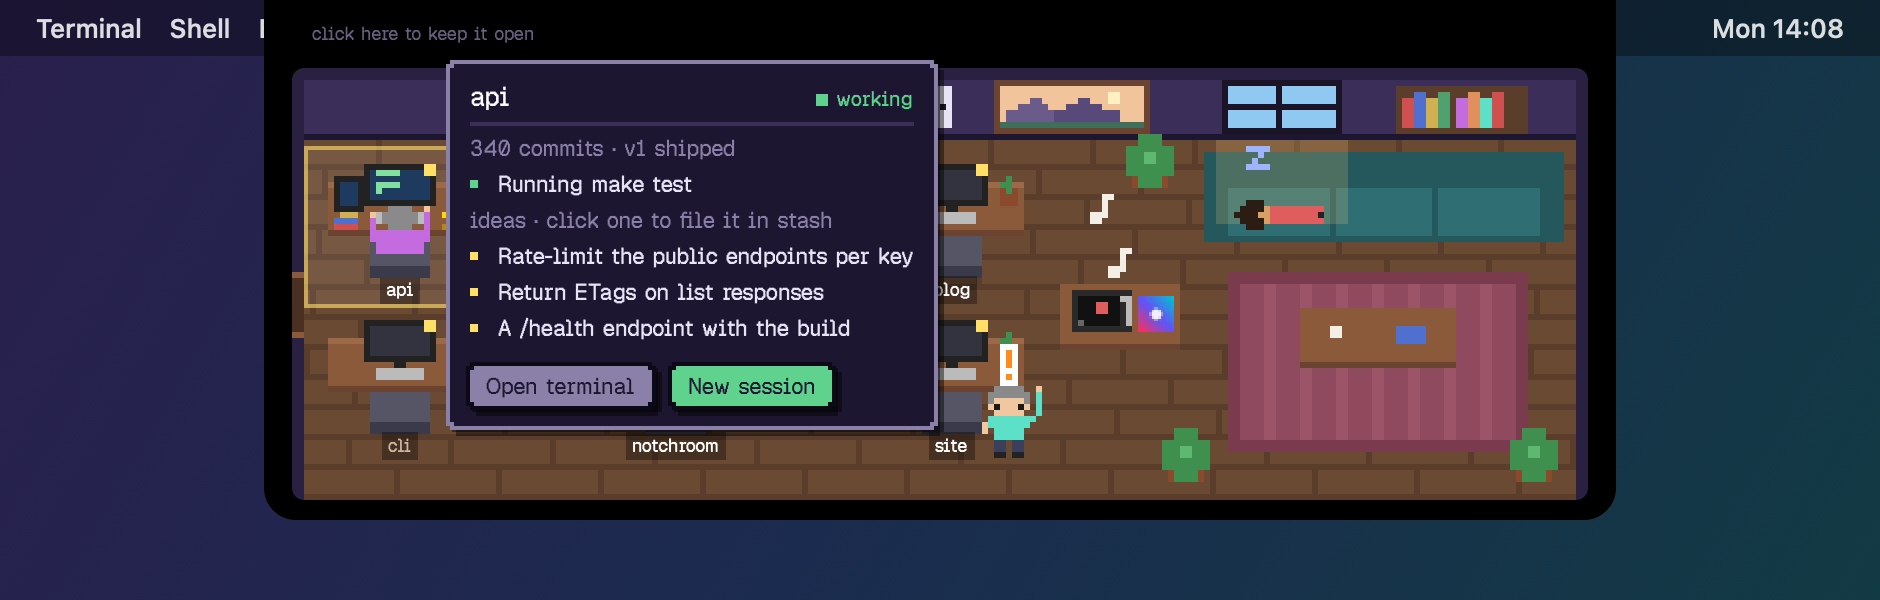
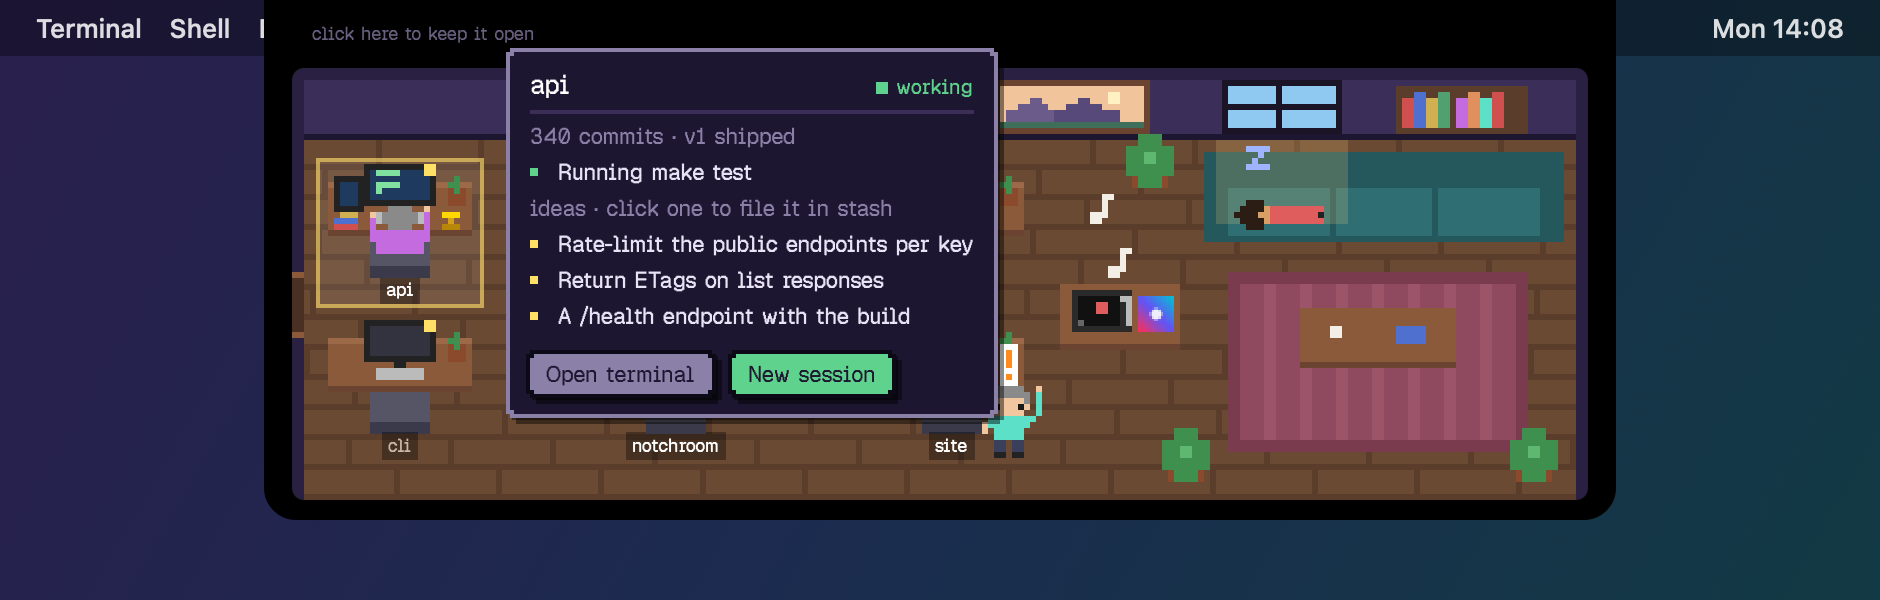
Open cards on click; keep a full card's buttons on screen
Cards followed the mouse, so they popped up while you were just passing
through the room, and the desk zones tiled the whole work area, so almost
anywhere counted as a desk. A card now opens when you click what it is about
and closes on a second click, a click on the card, a click elsewhere, or when
the notch collapses. Each desk's zone is now just the desk, its chair and its
nameplate.

A card taller than the open notch was clamped to a negative position, which
pushed its buttons off the bottom. Trailing lines (the ideas) are dropped
until it fits.

Changed region(s): [[0.1543, 0.06, 0.5553, 0.75]]

diff --git a/Sources/Room.swift b/Sources/Room.swift
@@ -36,6 +36,7 @@ final class Room: NSView {
     var cat = Cat()
     var expanded = false
     var keptOpen = false // clicked open: stays open without hovering
+    var opened: Target? // clicked: its card stays up until you click it again or elsewhere
     var autoCard: Target? // shown without hovering, while the room peeks open for a permission request
     var tick = 0
     var mouse: NSPoint?
@@ -72,8 +73,8 @@ final class Room: NSView {
 
     func deskOrigin(_ d: Int) -> (Int, Int) { (6 + d % 3 * 46, d < 3 ? 44 : 18) }
 
-    /// A desk's hover zone. The six cells tile the work area edge to edge, so moving between desks never drops the card.
-    func cell(_ d: Int) -> NSRect { d < 3 ? box(1 + d % 3 * 46, 31, 46, 29) : box(1 + d % 3 * 46, 0, 46, 31) }
+    /// A desk's hover zone: the desk, its monitor, chair and nameplate, with a small margin.
+    func cell(_ d: Int) -> NSRect { let (x, y) = deskOrigin(d); return box(x - 3, y - 13, 30, 27) }
 
     /// Where each agent belongs right now: its desk chair, beside its desk (waving), or a spot on the couch.
     func stations() -> [String: (Int, Int)] {
@@ -427,16 +428,11 @@ final class Room: NSView {
         label.put(at: NSPoint(x: ox + 10, y: band.midY - label.size.height / 2))
         targets.insert((band, .pin), at: 0)
 
-        // party banner, else a hover card, else an idea bubble
+        // party banner, else the clicked card, else an idea bubble
         if let p = partyNow, let a = anchors[p.project] {
             drawBubble(p.kind, at: a, icon: star)
         }
-        let hovered: Target? = {
-            if let p = pinned, let m = mouse, p.card.insetBy(dx: -10, dy: -10).contains(m) { return p.target } // keep it while you reach for its buttons
-            if let m = mouse, let t = hit(m) { return t }
-            return autoCard
-        }()
-        if let t = hovered, let anchor = targets.last(where: { $0.target == t })?.rect, let card = card(for: t) {
+        if let t = opened ?? autoCard, let anchor = targets.last(where: { $0.target == t })?.rect, let card = card(for: t) {
             pinned = (t, drawCard(card, beside: anchor))
         } else {
             pinned = nil
@@ -456,13 +452,10 @@ final class Room: NSView {
     override func mouseDown(with e: NSEvent) {
         let m = convert(e.locationInWindow, from: nil)
         if let c = clicks.last(where: { $0.rect.contains(m) }) { c.action(); needsDisplay = true; return }
-        switch hit(m) {
-        case .pin: keptOpen.toggle(); needsDisplay = true
-        case .agent(let id): if let pid = agents.first(where: { $0.id == id })?.pid { focusTerminal(pid) }
-        case .desk(let p): // an empty desk starts a session, a busy one brings its terminal forward
-            if let pid = agents.first(where: { $0.project == p })?.pid { focusTerminal(pid) } else { newSession(p) }
-        case .cat: cat.meow = Date().addingTimeInterval(2)
-        default: break
-        }
+        if pinned?.card.contains(m) == true { opened = nil; needsDisplay = true; return } // a click on the card that missed its rows and buttons closes it
+        let t = hit(m)
+        if t == .pin { keptOpen.toggle() } else { opened = t == opened ? nil : t } // a second click, or a click elsewhere, closes it
+        if t == .cat { cat.meow = Date().addingTimeInterval(2) }
+        needsDisplay = true
     }
 }

diff --git a/Sources/Cards.swift b/Sources/Cards.swift
@@ -22,7 +22,7 @@ extension Room {
     }
 
     /// A project's card: who is on it and doing what, a permission question with its buttons, and the ideas.
-    /// At most one question gets buttons (the hovered session's, else the first), built from that request alone.
+    /// At most one question gets buttons (the clicked session's, else the first), built from that request alone.
     func projectCard(_ proj: String, focus: String? = nil) -> Card {
         let here = agents.filter { $0.project == proj }
         let chip: (String, UInt32) =
@@ -114,6 +114,11 @@ extension Room {
 
     /// Draws a card beside what it is about (right, else left), never on top of it; returns where it went.
     func drawCard(_ c: Card, beside r: NSRect) -> NSRect {
+        var c = c
+        let fit = bounds.height - 14 - (c.buttons.isEmpty ? 0 : 30) - 42 // room for lines under title and above buttons
+        // ponytail: drop trailing lines (the ideas) until it fits, so the buttons never fall off the bottom
+        var heights = c.lines.map { ceil(text($0.text, 11, $0.color, width: 250).size.height) + 4 }
+        while heights.count > 1, heights.reduce(0, +) > fit { heights.removeLast(); c.lines.removeLast() }
         let title = text(c.title, 13, 0xffffff), chip = text(c.chip.0, 10, c.chip.1)
         let pic: CGFloat = c.image == nil ? 0 : 72, textW: CGFloat = 250
         let lines = c.lines.map { text($0.text, 11, $0.color, width: textW) }, sizes = lines.map(\.size)

diff --git a/Sources/App.swift b/Sources/App.swift
@@ -45,6 +45,7 @@ func runApp() {
         room.expanded = hovering || room.keptOpen || Date() < peekUntil
         if was != room.expanded { pace() } // opening speeds the timer up at once, not at its next slow tick
         if hovering || !room.expanded { room.autoCard = nil }
+        if !room.expanded { room.opened = nil }
         panel.ignoresMouseEvents = !room.expanded // closed, clicks fall through to the menu bar
         let target = room.expanded ? big : small
         if target != lastTarget {

diff --git a/Tools/screenshots.swift b/Tools/screenshots.swift
@@ -122,6 +122,7 @@ do {
     RunLoop.main.run(until: Date().addingTimeInterval(0.1))
     let v = demoRoom()
     v.mouse = NSPoint(x: 14 + 116 * 3, y: 10 + 10 * 3)
+    v.opened = .agent("a3")
     png(framed(v, canvas: canvas), "permission.png")
 }
 
@@ -129,6 +130,7 @@ do {
 do {
     let v = demoRoom()
     v.mouse = NSPoint(x: 14 + 20 * 3, y: 10 + 45 * 3)
+    v.opened = .desk(v.desks[0])
     png(framed(v, canvas: canvas), "card.png")
 }
 

diff --git a/README.md b/README.md
@@ -13,12 +13,12 @@ Running several Claude Code sessions at once means tabbing around to find out wh
 
 - **See every session at a glance.** Working, waiting for you, or idle, each one drawn where it is. Collapsed, the notch shows a head per session and one line of news: who needs you, or what the latest work is.
 - **Answer permission requests from the notch.** When a session asks to run something, the room opens with the full command and **Allow**, **Deny** and **Terminal** buttons.
-- **Jump to the right terminal, or start a new one.** Click a character to bring its terminal to the front (in Ghostty, the exact terminal). Click an empty desk to start a new Claude session in that project.
+- **Jump to the right terminal, or start a new one.** Click a character or desk, then **Open terminal** to bring its terminal to the front (in Ghostty, the exact terminal), or **New session** to start a new Claude session in that project.
 - **A sound when you're needed.** For when you're looking at something else.
-- **What everyone is doing.** Hover a desk: "Running make test", "Editing Room.swift", plus the project's commit count.
+- **What everyone is doing.** Click a desk: "Running make test", "Editing Room.swift", plus the project's commit count.
 - **Ideas on every desk.** Once a day per project, Claude Haiku reads the README and recent commits and pitches a few small features, which show up as speech bubbles. Click one to file it in [stash](https://github.com/pyvnoaim/stash).
 - **The real sky.** Sunrise, dusk and night follow the sun where your time zone says you are, and the windows show rain or snow when it's actually raining or snowing there. At night the lamp comes on.
-- **Today's numbers.** Hover the wall clock for today's active time, tool calls and sessions, per project.
+- **Today's numbers.** Click the wall clock for today's active time, tool calls and sessions, per project.
 - **A party for green tests.** A passing test run or a `git push` throws confetti and the project's character dances.
 - **Small things.** A record player that shows what [resona](https://github.com/pyvnoaim/resona) is playing (everyone bobs along), desks that collect plants, screens, books and a trophy as their projects grow, and a cat named Byte who sits on the keyboard of whatever you've been ignoring longest.
 - **No dependencies.** Plain Swift and AppKit, built with the Xcode Command Line Tools.
@@ -53,17 +53,17 @@ Sessions that are already running pick up the hooks the next time they start. Af
 
 ## Usage
 
-Hover the notch to open the room; it closes when the mouse leaves. To keep it open while you work, click the strip at the top of the room (behind the notch), and click it again to close. Everything in the room has a card when you hover it:
+Hover the notch to open the room; it closes when the mouse leaves. To keep it open while you work, click the strip at the top of the room (behind the notch), and click it again to close. Click anything in the room to open its card; click it again, the card itself, or anywhere else to close it:
 
-| Hover | Shows | Click |
-| --- | --- | --- |
-| A character | the project, what each session is doing, any permission question, the ideas | its terminal comes to the front |
-| A desk | the same, with **Open terminal** and **New session** | an empty desk starts a new Claude session there, a busy one brings its terminal forward |
-| An idea in a card | | files it in stash and takes it off the desk |
-| The wall clock | today's active time, tool calls and sessions, per project | |
-| The strip behind the notch | | keeps the room open while you work; click again to close |
-| The record player | the song, with its cover | |
-| The cat | where it is napping | it says hi |
+| Click | Shows |
+| --- | --- |
+| A character | the project, what each session is doing, any permission question, the ideas, with **Open terminal** and **New session** |
+| A desk | the same |
+| An idea in a card | files it in stash and takes it off the desk |
+| The wall clock | today's active time, tool calls and sessions, per project |
+| The strip behind the notch | keeps the room open while you work; click again to close |
+| The record player | the song, with its cover |
+| The cat | where it is napping, and it says hi |
 
 The room also opens by itself for a few seconds, with a sound, when a session starts waiting for you, and when a party starts.
 
@@ -145,7 +145,7 @@ Sources/
 ├── main.swift       command-line entry point
 ├── App.swift        the notch panel: placement, opening and closing, reload timers
 ├── Room.swift       the room: who stands where, walking, the cat, drawing it open or collapsed
-├── Cards.swift      hover cards and speech bubbles
+├── Cards.swift      cards and speech bubbles
 ├── Pixels.swift     colors, cached bitmaps and text, sprites
 ├── Hook.swift       --hook: turns Claude Code hook events into state files
 ├── Sessions.swift   sessions, projects, desks, focusing a terminal
